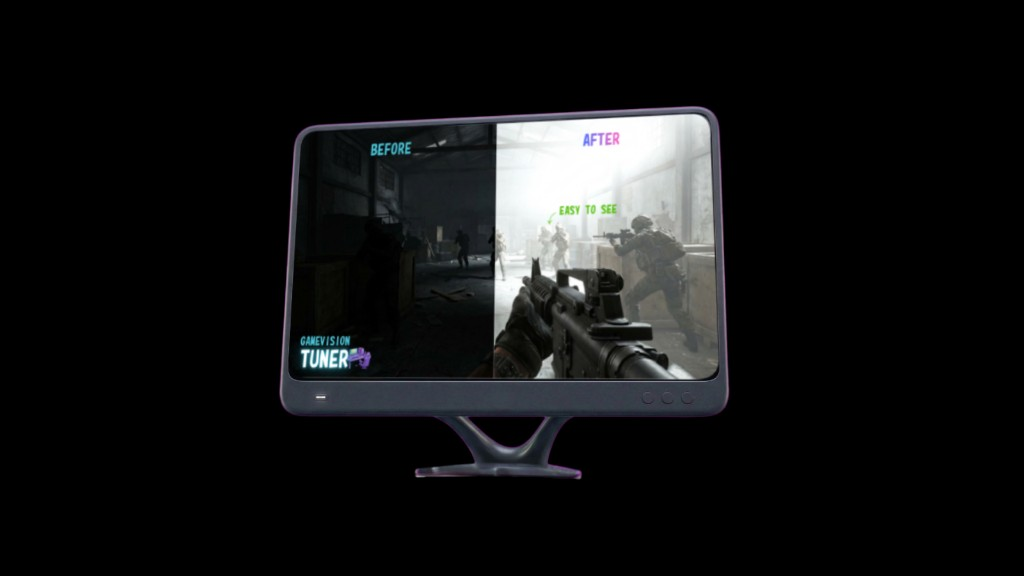
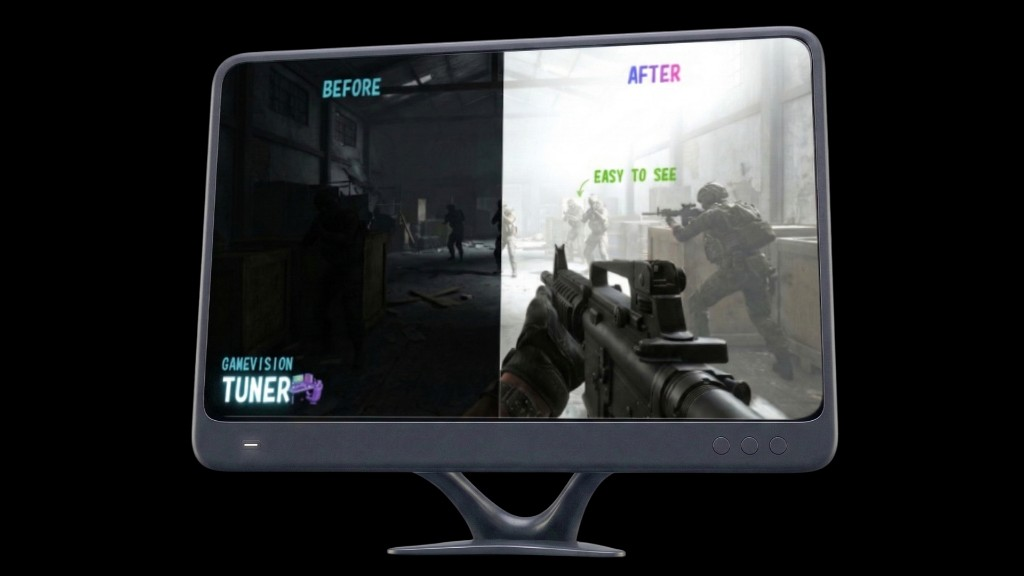
fix(lp): ヒーロー画像をBefore/Afterモニター透過素材に変更
Made-with: Cursor

diff --git a/lp/app/page.tsx b/lp/app/page.tsx
@@ -235,19 +235,19 @@ function Hero() {
           </div>
         </div>
 
-        {/* Right: FPS game scene */}
+        {/* Right: Before/After monitor */}
         <div className="flex-1 relative flex items-center justify-center lg:justify-end">
           <div
-            className="absolute w-[80%] h-[80%] bg-electric-cyan/[0.08] blur-[80px] rounded-full pointer-events-none"
+            className="absolute w-[60%] h-[60%] bg-electric-cyan/[0.08] blur-[100px] rounded-full pointer-events-none"
             aria-hidden="true"
           />
           {/* eslint-disable-next-line @next/next/no-img-element */}
           <img
-            src="/images/hero-fps.png"
-            alt="FPSゲーム画面 — 暗い画面と明るい画面の比較。ディスプレイ設定の最適化で視認性が劇的に向上"
+            src="/images/hero-monitor.png"
+            alt="GameVision Tuner — Before/After 比較。左は暗く敵が見えない画面、右はデジタルバイブランス適用後の鮮明な画面"
             width={700}
             height={450}
-            className="relative w-full max-w-[600px] xl:max-w-[700px] h-auto rounded-2xl border border-white/10 shadow-2xl shadow-electric-cyan/10"
+            className="relative w-full max-w-[600px] xl:max-w-[700px] h-auto drop-shadow-[0_0_60px_rgba(0,195,255,0.12)]"
           />
         </div>
       </div>
